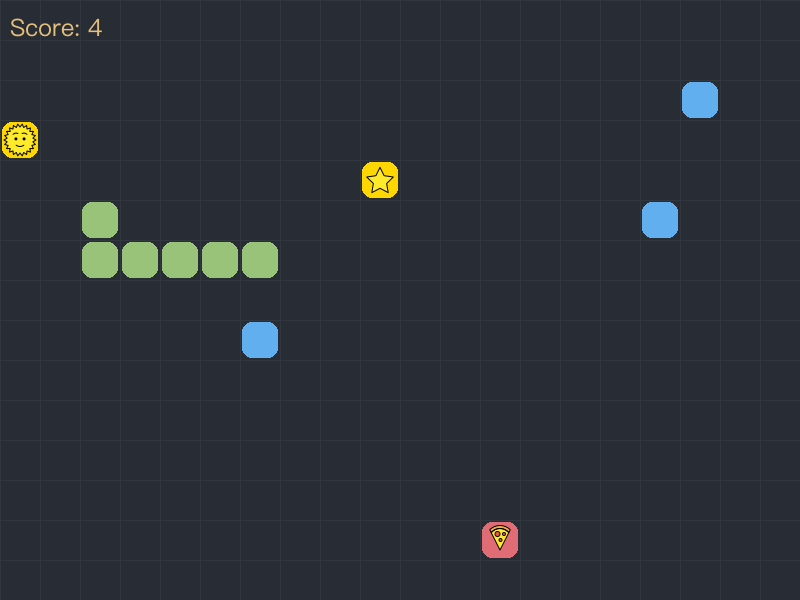
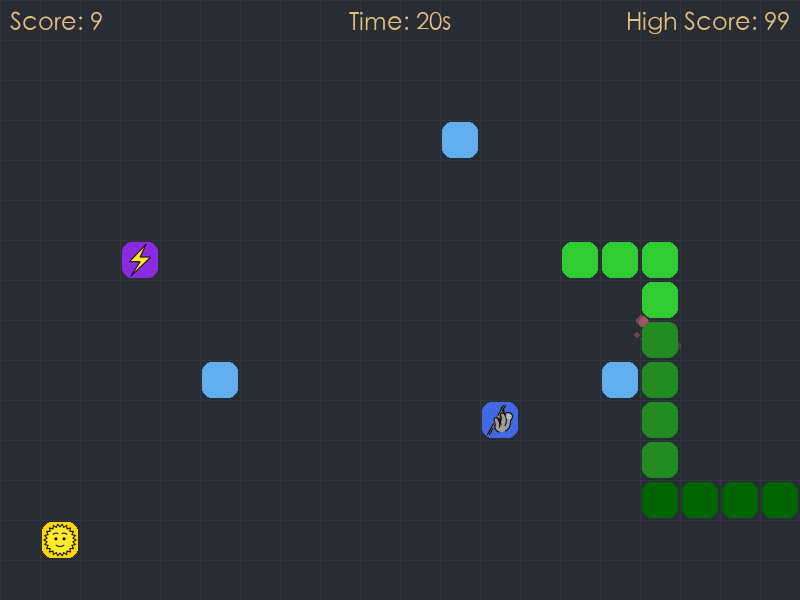
feat: add screenshot functionality with tests
- Add Screenshot class with configurable delay
- Add --screenshots flag to capture game moments
- Create test suite for screenshot functionality
- Update documentation and .gitignore

diff --git a/snake_game.py b/snake_game.py
@@ -1,4 +1,6 @@
 import os
+from datetime import datetime
+import argparse
 import pygame
 from src import (
     Snake,
@@ -57,10 +59,38 @@ if background_music:
         print(f"Failed to play background music: {str(e)}")
 
 
+class Screenshot:
+    delay_ms = 500
+
+    def __init__(self):
+        self.pending = False
+        self.scheduled_time = 0
+        self.directory = "screenshots"
+        os.makedirs(self.directory, exist_ok=True)
+
+    def schedule(self):
+        """Schedule a screenshot to be taken after delay_ms"""
+        self.pending = True
+        self.scheduled_time = pygame.time.get_ticks() + self.delay_ms
+
+    def update(self, screen):
+        """Check and take screenshot if scheduled time has passed"""
+        if not self.pending:
+            return
+
+        current_time = pygame.time.get_ticks()
+        if current_time >= self.scheduled_time:
+            timestamp = datetime.now().strftime("%Y%m%d_%H%M%S")
+            path = f"{self.directory}/snake_{timestamp}.png"
+            pygame.image.save(screen, path)
+            self.pending = False
+
+
 class GameState:
     def __init__(self):
         self.high_score = self.load_high_score()
         self.start_time = 0
+        self.screenshot = Screenshot()  # Initialize screenshot manager
 
     def load_high_score(self):
         try:
@@ -146,7 +176,7 @@ def handle_direction_change(key, snake):
         snake.direction = directions[key][0]
 
 
-def update_game_state(snake, obstacles, food):
+def update_game_state(snake, obstacles, food, enable_screenshots=False, screenshot_manager=None):
     """Update game state and handle collisions."""
     # Check for collision with obstacles or self
     if snake.update(obstacles):
@@ -165,6 +195,10 @@ def update_game_state(snake, obstacles, food):
         snake.score += food_properties["points"]  # Update score when eating food
         snake.handle_food_effect(food_properties)
 
+        # Schedule screenshot if enabled
+        if enable_screenshots and screenshot_manager:
+            screenshot_manager.schedule()
+
         # Add new obstacle every 10 points
         if snake.score % 10 == 0:
             obstacles.add_obstacle(snake)
@@ -173,7 +207,7 @@ def update_game_state(snake, obstacles, food):
     return False
 
 
-def render_game(screen, snake, food, obstacles, game_over, game_state):
+def render_game(screen, snake, food, obstacles, game_over, game_state, screenshot_manager=None):
     """Render the game state"""
     screen.fill(BACKGROUND)
     draw_grid(screen)
@@ -202,6 +236,10 @@ def render_game(screen, snake, food, obstacles, game_over, game_state):
     time_rect.midtop = (WINDOW_WIDTH // 2, 10)
     screen.blit(time_text, time_rect)
 
+    # Update and take screenshot if scheduled
+    if screenshot_manager:
+        screenshot_manager.update(screen)
+
     if game_over:
         show_game_over(screen, snake.score, game_state)
     else:
@@ -209,7 +247,13 @@ def render_game(screen, snake, food, obstacles, game_over, game_state):
 
 
 def main():
+    # Parse command line arguments
+    parser = argparse.ArgumentParser(description="Snake Game")
+    parser.add_argument("--screenshots", action="store_true", help="Enable screenshots when snake eats food")
+    args = parser.parse_args()
+
     game_state = GameState()
+    screenshot_manager = Screenshot() if args.screenshots else None
     snake = Snake()
     obstacles = Obstacle()
     food = Food(obstacles)
@@ -246,9 +290,9 @@ def main():
             continue
 
         if not game_over:
-            game_over = update_game_state(snake, obstacles, food)
+            game_over = update_game_state(snake, obstacles, food, args.screenshots, screenshot_manager)
 
-        render_game(game_screen, snake, food, obstacles, game_over, game_state)
+        render_game(game_screen, snake, food, obstacles, game_over, game_state, screenshot_manager)
         clock.tick(snake.speed)
 
 

diff --git a/tests/test_screenshot.py b/tests/test_screenshot.py
@@ -1,0 +1,67 @@
+import os
+import shutil
+import pygame
+from unittest import TestCase, main
+from snake_game import Screenshot
+
+
+class TestScreenshot(TestCase):
+    def setUp(self):
+        pygame.init()
+        self.screen = pygame.Surface((800, 600))
+        self.test_dir = "test_screenshots"
+        os.makedirs(self.test_dir, exist_ok=True)
+        self.screenshot = Screenshot()
+        self.screenshot.directory = self.test_dir
+
+    def tearDown(self):
+        if os.path.exists(self.test_dir):
+            shutil.rmtree(self.test_dir)
+        pygame.quit()
+
+    def test_init(self):
+        """Test Screenshot initialization"""
+        self.assertFalse(self.screenshot.pending)
+        self.assertEqual(self.screenshot.scheduled_time, 0)
+        self.assertEqual(self.screenshot.delay_ms, 500)
+        self.assertTrue(os.path.exists(self.test_dir))
+
+    def test_schedule(self):
+        """Test screenshot scheduling"""
+        current_time = pygame.time.get_ticks()
+        self.screenshot.schedule()
+
+        self.assertTrue(self.screenshot.pending)
+        self.assertEqual(self.screenshot.scheduled_time, current_time + self.screenshot.delay_ms)
+
+    def test_update_not_pending(self):
+        """Test update when no screenshot is pending"""
+        initial_files = os.listdir(self.test_dir) if os.path.exists(self.test_dir) else []
+        self.screenshot.update(self.screen)
+        final_files = os.listdir(self.test_dir)
+        self.assertEqual(initial_files, final_files)
+
+    def test_update_pending_but_not_time(self):
+        """Test update when screenshot is pending but time hasn't elapsed"""
+        self.screenshot.schedule()
+        initial_files = os.listdir(self.test_dir)
+        self.screenshot.update(self.screen)
+        final_files = os.listdir(self.test_dir)
+        self.assertEqual(initial_files, final_files)
+        self.assertTrue(self.screenshot.pending)
+
+    def test_update_pending_and_time_elapsed(self):
+        """Test update when screenshot should be taken"""
+        self.screenshot.schedule()
+        self.screenshot.scheduled_time = 0  # Force time to have elapsed
+        initial_files = os.listdir(self.test_dir)
+        self.screenshot.update(self.screen)
+        final_files = os.listdir(self.test_dir)
+
+        # Should have one new file
+        self.assertEqual(len(final_files), len(initial_files) + 1)
+        self.assertFalse(self.screenshot.pending)
+
+
+if __name__ == "__main__":
+    main()

diff --git a/README.md b/README.md
@@ -1,8 +1,10 @@
 # Snake Game
 
-## Abot
+## About
 
 This is a Snake game implementation that demonstrates how [Windsurf](https://codeium.com/windsurf) can be used to develop and maintain software. The entire codebase, including game logic, tests, and documentation, has been written with the assistance of Windsurf.
+
+![Snake Game Screenshot](docs/screenshot.png)
 
 ## Quick Start
 
@@ -20,6 +22,9 @@ pip install -r requirements.txt
 
 # Launch the game
 python snake_game.py
+
+# Launch with automatic screenshots (captures when eating food)
+python snake_game.py --screenshots
 ```
 
 ## Gameplay
